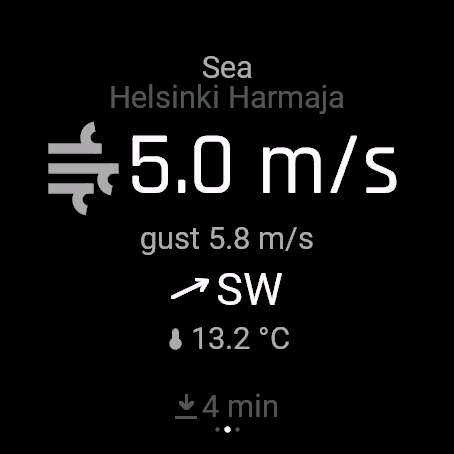
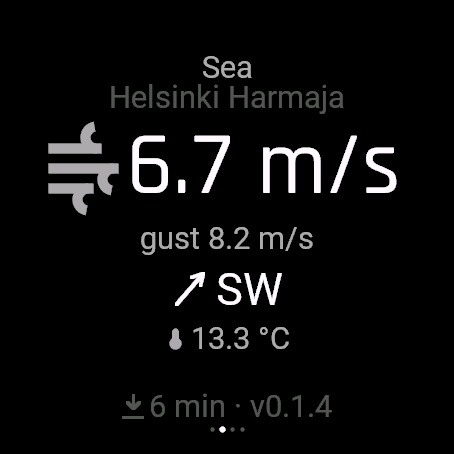
Document the build phase: changelog, READMEs, fresh screenshots
The two READMEs had gone stale in one evening — the backend was missing
two endpoints and said nothing about how it is deployed, and the watch
one still described three pages and no release process.

CHANGELOG.md records v0.1.0 through v0.1.4 and the backend changes, with
the reasoning that is not obvious from a diff: why every upload needs a
new version number, why the glance captions changed twice, why the
version and the last-updated row could not share a footer.

Screenshots regenerated from v0.1.4 — the four pages plus the glance now
show the single-row footer and four page dots. The threshold-variant
captures are older and left as they were.

diff --git a/CHANGELOG.md b/CHANGELOG.md
@@ -1,0 +1,67 @@
+# Changelog
+
+Watch app versions are what the Connect IQ store tracks and what the app draws in
+its own footer. The store refuses a repeated version number, so **every upload gets
+a new one** — including a rebuild of something never published, because otherwise
+two different binaries share a number and a tester's report cannot be placed.
+
+Design reasoning lives in `RESEARCH.md` (owned by the `claude-docs` repo).
+
+## Watch app
+
+### v0.1.4 — 2026-09-20
+- **About page**, carrying the FMI attribution CC BY 4.0 requires in the app itself,
+  plus the app name and build. Page count goes from 3 to 4; About is last in both
+  page orders.
+- Failures name themselves: 404 → place not found, 5xx or `BLE_REQUEST_TOO_LARGE` →
+  service unavailable, anything else → no connection. Previously every non-200 read
+  as "No connection", blaming the phone for a typo.
+- A cached reading shown after a failed refresh says so instead of looking live.
+- The three fetches chain from each other's callbacks rather than firing at once and
+  overrunning Connect IQ's request queue; Select is debounced to 30 s.
+- Page-order arrays hoisted out of `onUpdate`; six glance strings superseded by
+  `Labels.mc` removed.
+
+### v0.1.3 — 2026-09-20
+- The version stopped colliding with the last-updated row. They sat at 0.855h and
+  0.895h — about 18 px apart on a 454 px screen, against a font taller than that —
+  so they drew on top of each other and the version, whose whole job is telling a
+  tester which build they are on, was unreadable. Now one row: `12 min · v0.1.3`.
+
+### v0.1.2 — 2026-09-20
+- Glance captions to white. `LT_GRAY` measured fine against black in the simulator
+  but the carousel dims the whole glance strip on AMOLED. The caption stays
+  subordinate by font size instead.
+
+### v0.1.1 — 2026-09-20
+- **Finnish and Swedish strings.** The manifest had declared `eng`/`fin`/`swe` since
+  the first build but both resource folders were empty, so every device fell back to
+  English. No setting is involved — Connect IQ picks the folder from the device's
+  system language.
+- Glance captions from `DK_GRAY` to `LT_GRAY` (~2.9:1 → ~9:1 against black).
+- Build outputs carry the version: `fiweatherwatch-<version>.iq`, and an optional
+  device argument also builds `fiweatherwatch-<version>-<device>.prg`. An undated
+  `.prg` left in `bin/` is indistinguishable from a current one, and sideloading a
+  stale build looks exactly like a fix that did not work.
+
+### v0.1.0 — 2026-09-20
+- First beta for the Connect IQ store. Land, Sea and Waves pages, configurable
+  glance, thresholds, Finnish marine stations and wave buoys.
+
+## Backend
+
+### 2026-09-20
+- `/v1/marine-series` — mean and gust for the last 12 hours from the same station
+  record `/v1/marine` reads, sampled every 20 minutes. For the public page; the
+  watch cannot hold a series.
+- Public page: hourly precipitation in the forecast strip, and the 12-hour wind
+  trend chart.
+- Cache bounded. Expired entries were dropped only when their own key was read
+  again, and keys embed caller-supplied place names, so memory grew monotonically.
+  Now swept on write, capped at 512.
+- `/v1/glance` and `/v1/observations` no longer build the same cache key from
+  separate code — the queries behind it had drifted, one resolving the place name to
+  coordinates and the other asking by name.
+- One `httpx.AsyncClient` for the process instead of one per request.
+- Single-flight on cache misses; negative caching for unknown places (37 ms → 0.8 ms
+  on repeat); `place` capped at 64 characters.

diff --git a/README.md b/README.md
@@ -24,6 +24,12 @@ certificate already proven to work on Garmin hardware. (§2, §10, §12)
 | `GET /v1/observations` | nearest station, current conditions, provenance | ~300 B |
 | `GET /v1/marine` | station wind + waves, with a `mode` field | ~510 B |
 | `GET /v1/forecast` | land forecast, up to 10 days | ~0.8–1.4 kB |
+| `GET /v1/marine-series` | 12 h of station wind + gust, for the web chart | ~1.8 kB |
+| `GET /v1/stations` | marine stations and wave buoys, for the pickers | ~2 kB |
+
+`/v1/marine-series` is for the public page, not the watch — a single current reading
+cannot show whether the wind is rising or falling, and the watch cannot hold the
+series anyway.
 
 `/v1/marine` carries `mode` (`waves` or `model`) from day one. Sea ice adds a
 third value in v1.5; shipping the field now keeps that a server change rather
@@ -38,6 +44,28 @@ python3.12 -m venv .venv && .venv/bin/pip install -e ".[dev]"
 ```
 
 With Docker: `cp .env.example .env && docker compose up -d --build`
+
+## Deployment
+
+Production is `weatherapp.tallimedia.com`, on **public-vm** under
+`~/public-services/weatherapp/`, behind the shared Traefik and Cloudflare tunnel. It
+is not a git checkout — copy the tree up and rebuild:
+
+```bash
+tar --exclude='__pycache__' --exclude='.DS_Store' -czf - app Dockerfile pyproject.toml \
+  | ssh public-vm-auto 'cd ~/public-services/weatherapp && tar -xzf -'
+ssh public-vm-auto 'cd ~/public-services/weatherapp && docker compose build && docker compose up -d'
+```
+
+There is no `rsync` on that host. Tag `fiweatherwatch-backend:rollback` before
+building so a revert is one command. `.env` there sets `ENABLE_PUBLIC=true` and
+`ENABLE_CHARTS=false` — **the charts explorer must stay off in production.**
+
+**Cloudflare caches assets for four hours and will hide a correct deploy.** Asset
+URLs carry a hash of their own bytes (`site.js?v=<hash>`) and the HTML is served
+`no-cache`, so a change always moves the URL. Verify against the live URL, never
+against the file on the host — they have disagreed for hours while both were
+"correct".
 
 ## Deployments
 

diff --git a/watch/README.md b/watch/README.md
@@ -1,7 +1,8 @@
 # FIWeatherWatch — watch app
 
-Connect IQ widget. Three pages plus a glance, against the live backend at
-`weatherapp.tallimedia.com`.
+Connect IQ widget. Four pages — Land, Sea, Waves, About — plus a glance, against
+the live backend at `weatherapp.tallimedia.com`. About carries the FMI attribution
+that CC BY 4.0 requires in the app itself.
 
 Design decisions and the reasoning behind them live in `../RESEARCH.md`
 (owned by the `claude-docs` repo); section references in the source point there.
@@ -17,6 +18,24 @@ monkeyc -o bin/fiweatherwatch.prg -f monkey.jungle \
         -y ~/.garmin-ciq/developer_key.der -d fenix847mm -w
 monkeydo bin/fiweatherwatch.prg fenix847mm
 ```
+
+## Release builds
+
+```bash
+./build-release.sh                  # bin/fiweatherwatch-<version>.iq for the store
+./build-release.sh fenix847mm       # also bin/fiweatherwatch-<version>-<device>.prg
+```
+
+Outputs carry the version because they outlive the build: an undated `.prg` in
+`bin/` cannot be told from a current one, and sideloading a stale build looks
+exactly like a fix that did not work. The script refuses to package if
+`manifest.xml` and `Config.VERSION` disagree — the store tracks the manifest,
+testers read what the app draws, and a mismatch means a bug report naming a
+build that never shipped.
+
+**Bump the version before rebuilding anything already uploaded.** The store
+rejects a repeated number, and two different binaries sharing one number makes a
+tester's report unplaceable. See `../CHANGELOG.md`.
 
 `fenix847mm` is the development target — quatix 8 is API-identical and has no
 separate simulator profile. The full VolvoWatch product list gets copied into
